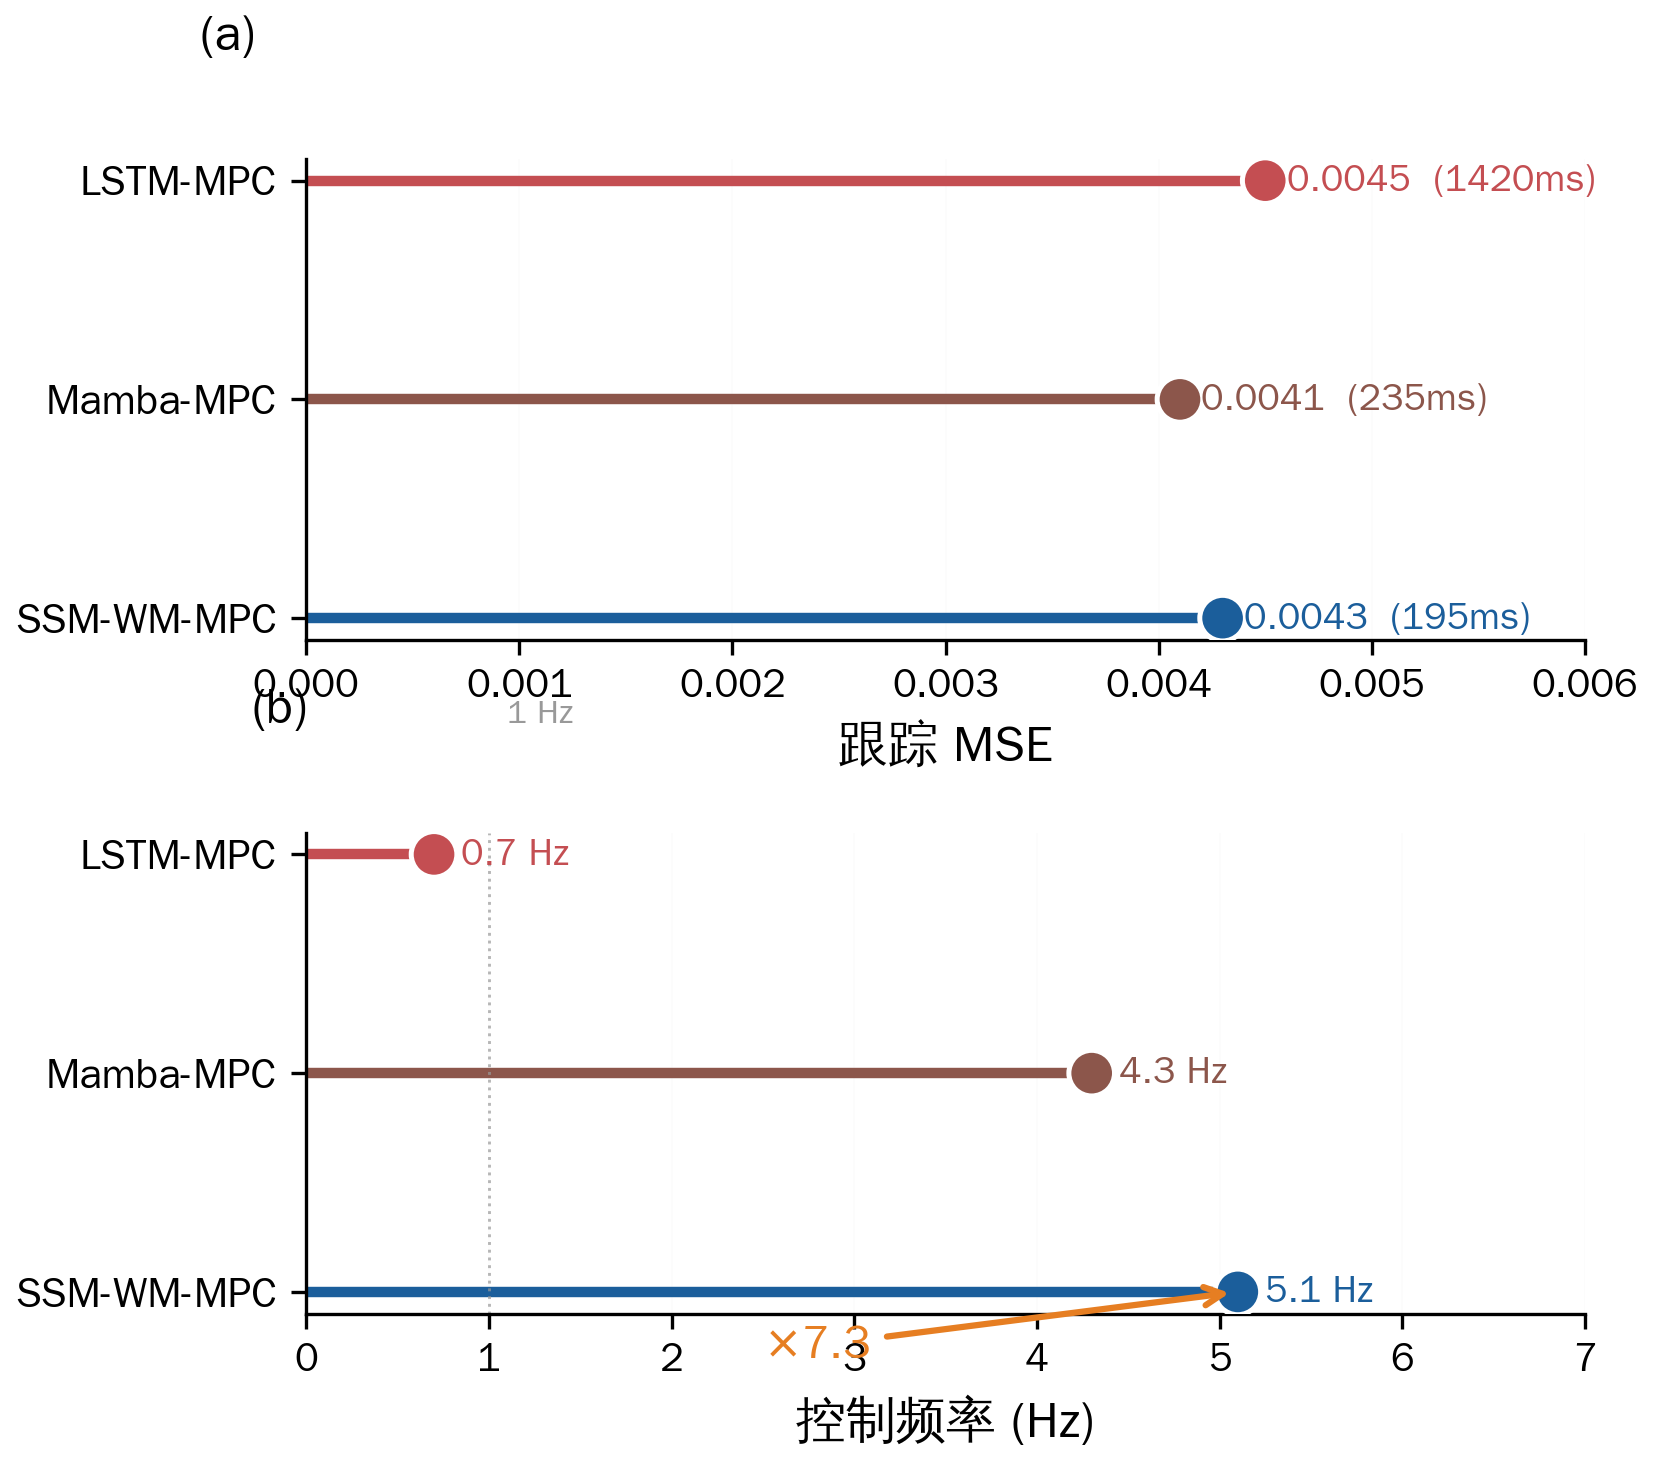
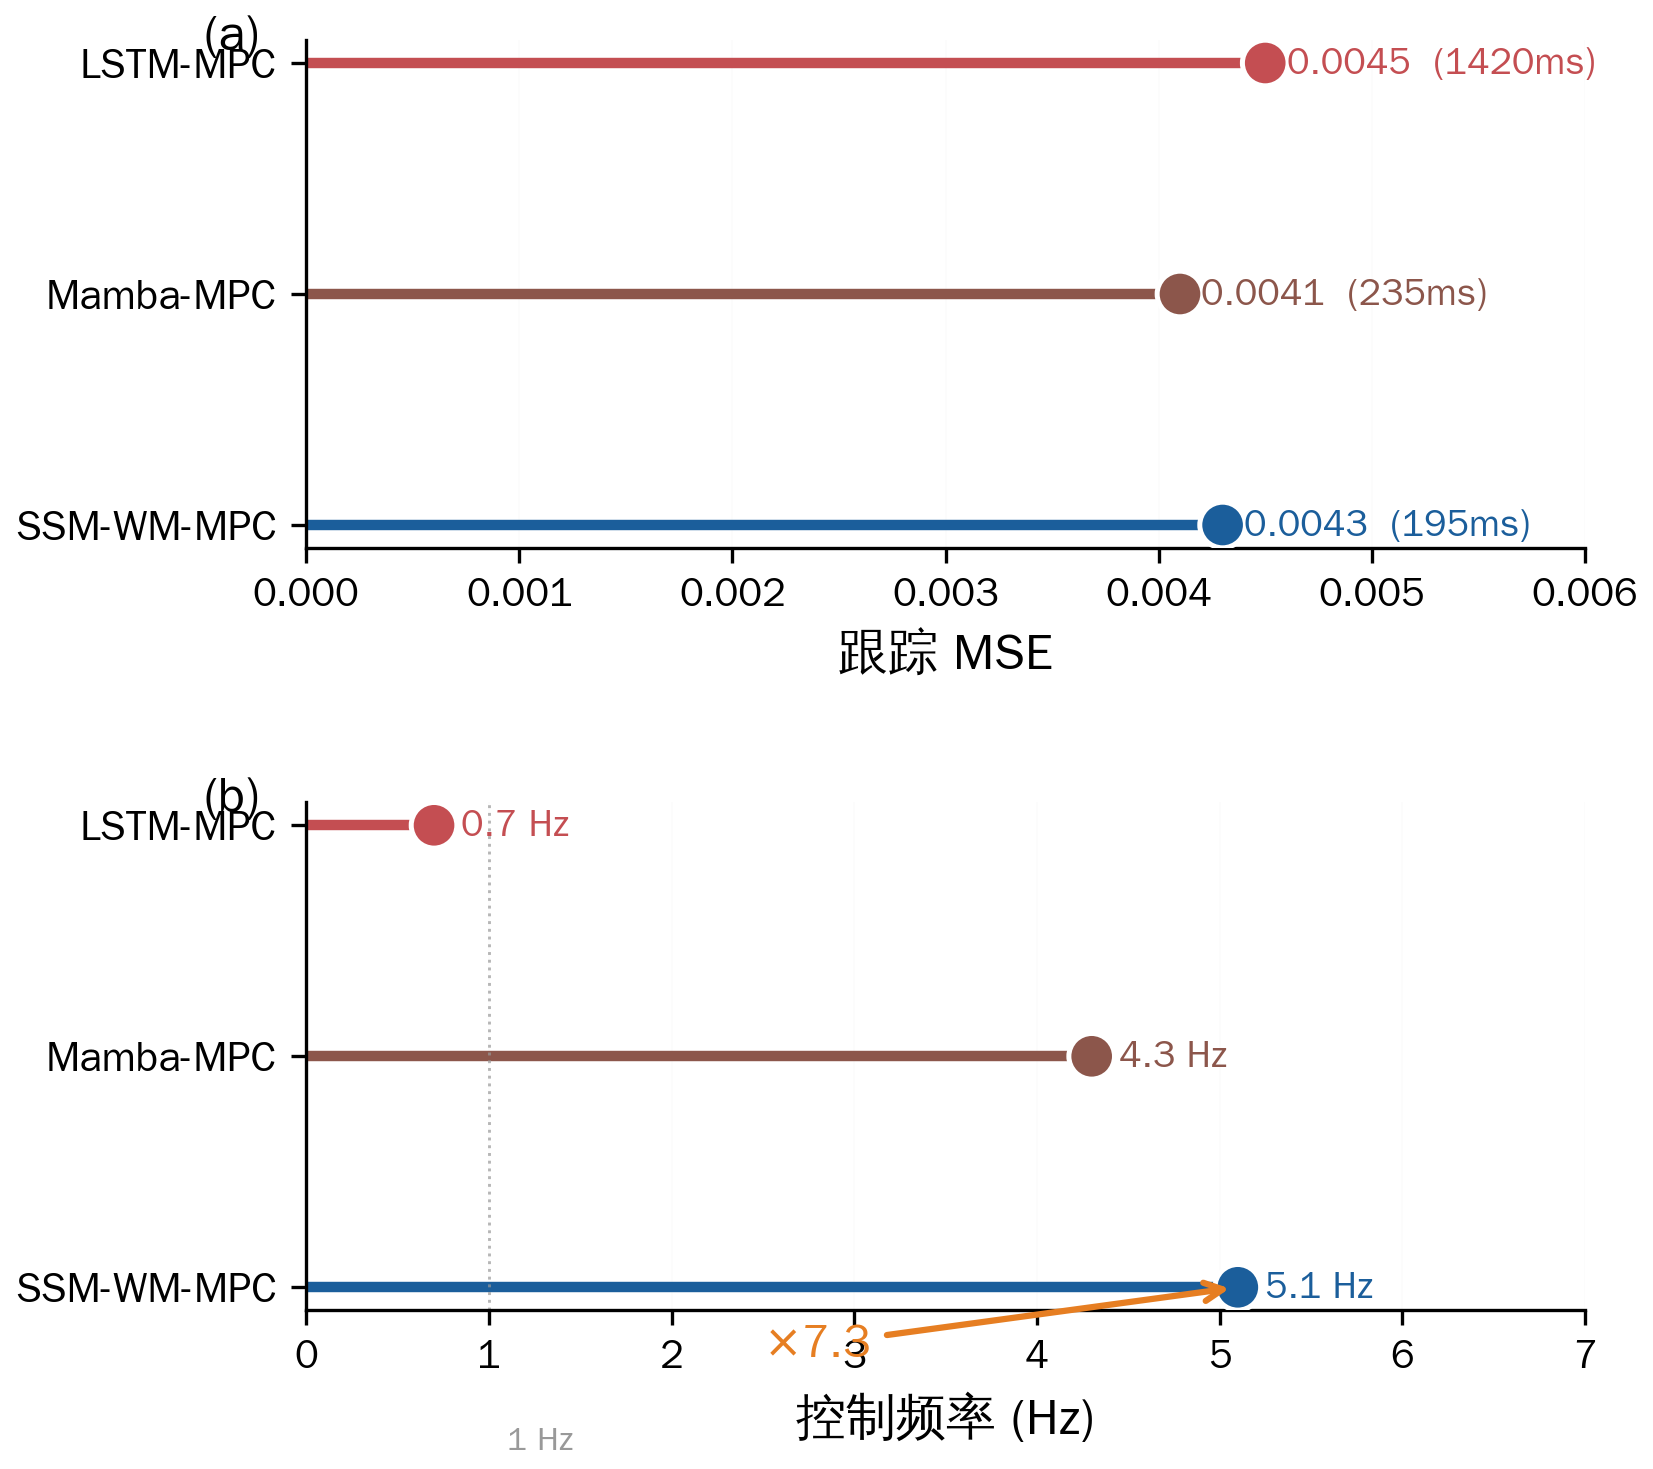
fix: 图5排版修复(a)(b)标签位置+间距+1Hz位置

diff --git a/scripts/generate_figures_nature.py b/scripts/generate_figures_nature.py
@@ -236,7 +236,7 @@ def fig4():
 # Fig 5: MPC comparison
 # ============================================================
 def fig5():
-    fig, (ax1, ax2) = plt.subplots(2, 1, figsize=(5.5, 5.0), gridspec_kw={'hspace': 0.40})
+    fig, (ax1, ax2) = plt.subplots(2, 1, figsize=(5.5, 5.5), gridspec_kw={'hspace': 0.50})
 
     methods = ['LSTM-MPC', 'Mamba-MPC', 'SSM-WM-MPC']
     mse_vals = [0.0045, 0.0041, 0.0043]
@@ -256,7 +256,7 @@ def fig5():
     ax1.set_xlim(0, 0.006)
     ax1.invert_yaxis()
     ax1.grid(True, alpha=0.12, axis='x', color=C_GRID, linewidth=0.4)
-    ax1.text(-0.0005, -0.6, '(a)', fontsize=12, fontweight='bold')
+    ax1.text(-0.08, 1.05, '(a)', transform=ax1.transAxes, fontsize=12, fontweight='bold', va='top')
 
     # (b) Frequency — horizontal lollipop (higher = better)
     ax2.hlines(y, 0, freq_vals, color=c, linewidth=2.5, zorder=2)
@@ -264,7 +264,7 @@ def fig5():
     for i, v in enumerate(freq_vals):
         ax2.text(v + 0.15, i, f'{v:.1f} Hz', fontsize=9, va='center', color=c[i], fontweight='bold')
     ax2.axvline(x=1, color='#999', linestyle=':', linewidth=0.7, alpha=0.7)
-    ax2.text(1.1, -0.6, '1 Hz', fontsize=8, color='#999')
+    ax2.text(1.1, 2.7, '1 Hz', fontsize=8, color='#999')
     # Speedup annotation
     ax2.annotate('$\\times$7.3', xy=(5.1, 2), xytext=(2.5, 2.3),
                 fontsize=11, fontweight='bold', color=C_ANNO,
@@ -275,7 +275,7 @@ def fig5():
     ax2.set_xlim(0, 7)
     ax2.invert_yaxis()
     ax2.grid(True, alpha=0.12, axis='x', color=C_GRID, linewidth=0.4)
-    ax2.text(-0.3, -0.6, '(b)', fontsize=12, fontweight='bold')
+    ax2.text(-0.08, 1.05, '(b)', transform=ax2.transAxes, fontsize=12, fontweight='bold', va='top')
 
     fig.tight_layout()
     save(fig, 'mpc_comparison')